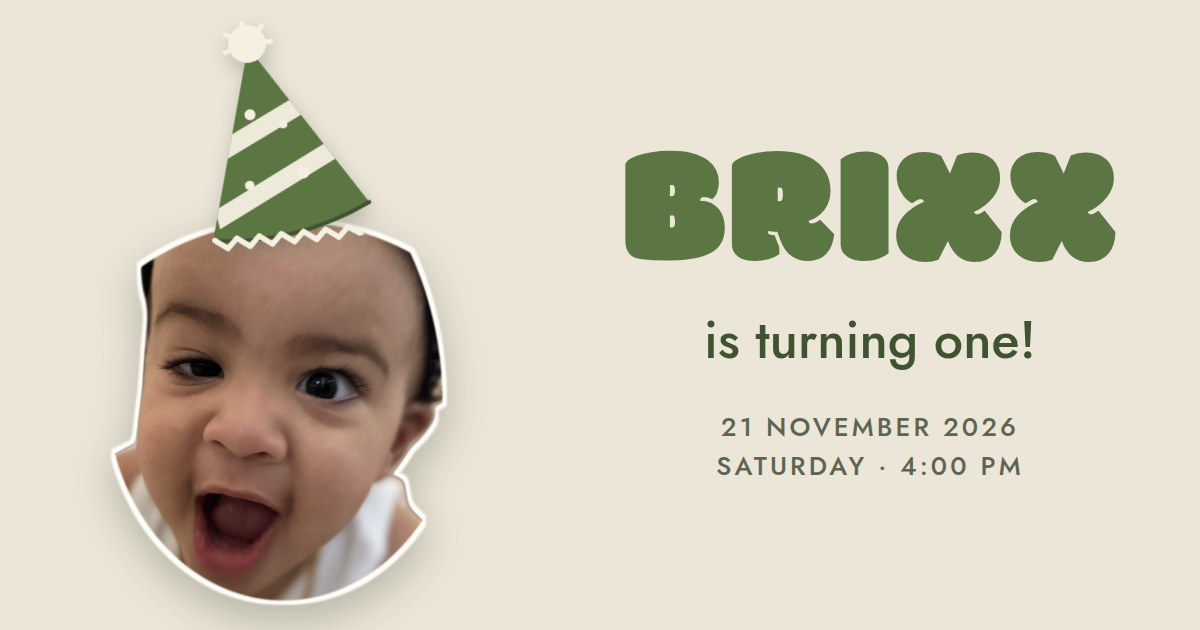
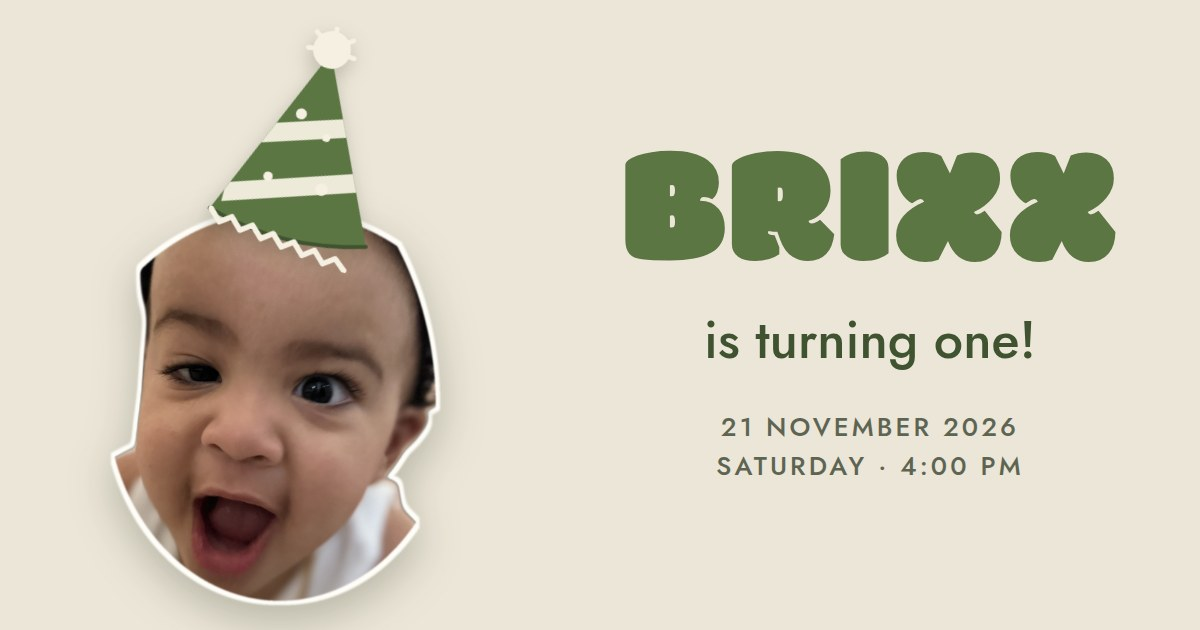
Preview card: hat tilted the other way, more of his head
Claude-Session: https://claude.ai/code/session_01FwCrGyPUUyEoV6NG9hieg5

diff --git a/docs/index.html b/docs/index.html
@@ -11,13 +11,13 @@
 <meta property="og:title" content="Brixx’s 1st Lūʻau">
 <meta property="og:description" content="Saturday, 21 November 2026 · 4:00 PM · Kāneʻohe. Tap to see the invitation and RSVP.">
 <meta property="og:url" content="https://briannepark.github.io/brixx-first-birthday/">
-<meta property="og:image" content="https://briannepark.github.io/brixx-first-birthday/preview.jpg?v=2">
+<meta property="og:image" content="https://briannepark.github.io/brixx-first-birthday/preview.jpg?v=3">
 <meta property="og:image:width" content="1200">
 <meta property="og:image:height" content="630">
 <meta property="og:image:alt" content="Brixx grinning in a green party hat, next to the words BRIXX is turning one!">
 <meta name="twitter:card" content="summary_large_image">
 <meta name="twitter:title" content="Brixx’s 1st Lūʻau">
-<meta name="twitter:image" content="https://briannepark.github.io/brixx-first-birthday/preview.jpg?v=2">
+<meta name="twitter:image" content="https://briannepark.github.io/brixx-first-birthday/preview.jpg?v=3">
 <meta name="theme-color" content="#ece6d8">
 <style>
   :root { color-scheme: light; }
@@ -29,7 +29,7 @@
 </style>
 </head>
 <body>
-<img src="preview.jpg?v=2" alt="Brixx is turning one! 21 November 2026, Saturday, 4:00 PM">
+<img src="preview.jpg?v=3" alt="Brixx is turning one! 21 November 2026, Saturday, 4:00 PM">
 <p>Opening the invitation…</p>
 <a id="go" href="https://app.windmill.dev/a/bri-dev/brixx-turns-one">Open the invitation</a>
 <script>
